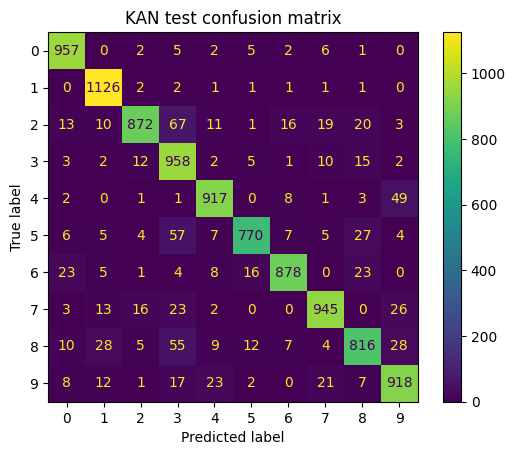
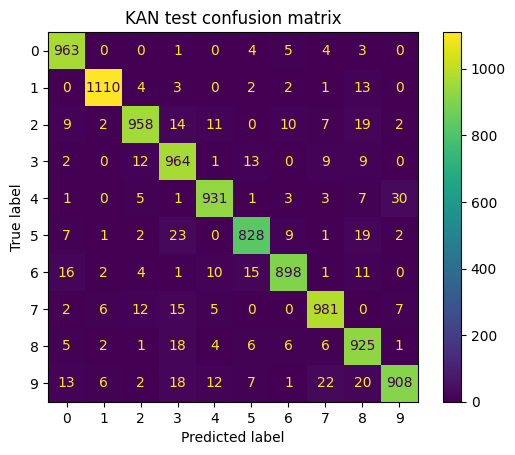
confusion matrix generation

diff --git a/src/main.py b/src/main.py
@@ -8,7 +8,7 @@ import optuna
 import torch
 import torch.nn as nn
 import torch.optim as optim
-from sklearn.metrics import ConfusionMatrixDisplay
+from sklearn.metrics import ConfusionMatrixDisplay, classification_report
 from torch.utils.data import DataLoader, Dataset, random_split
 from torchvision import datasets, transforms
 
@@ -176,7 +176,7 @@ def train_and_report(
     device: torch.device,
     epochs: int,
 ) -> None:
-    """Retrain with params on the full training set, print params, train time, and test accuracy, and save a confusion matrix."""
+    """Retrain with params on the full training set, print params, train time, test accuracy, and a classification report, and save a confusion matrix."""
     trial = optuna.trial.FixedTrial(params)
     model = build_model(trial)
     lr, batch_size = suggest_training(trial)
@@ -191,6 +191,8 @@ def train_and_report(
     print(f"{name} train time: {elapsed:.1f}s")
     print(f"{name} test accuracy: {acc:.4f}")
     print(f"{name} confusion matrix: {save_confusion_matrix(name, targets, preds)}")
+    print(f"{name} classification report:")
+    print(classification_report(targets.numpy(), preds.numpy(), digits=4))
 
 
 def parse_args() -> argparse.Namespace:

diff --git a/README.md b/README.md
@@ -49,7 +49,7 @@ uv run python src/main.py                       # 20 trials per model, 1 epoch p
 uv run python src/main.py --trials 50 --epochs 3
 ```
 
-For each model, an [Optuna](https://optuna.org) study (TPE sampler) searches hyperparameters by accuracy on a 5,000-example validation split held out from the training set. The best configuration is then retrained on the full training set and evaluated once on the test set, which is never seen during tuning. The script prints the best validation accuracy and params, then parameter count, training time, and test accuracy, for the MLP and KAN in sequence. It also saves a test-set confusion matrix for each model to `results/<model>_confusion_matrix.png` (gitignored).
+For each model, an [Optuna](https://optuna.org) study (TPE sampler) searches hyperparameters by accuracy on a 5,000-example validation split held out from the training set. The best configuration is then retrained on the full training set and evaluated once on the test set, which is never seen during tuning. The script prints the best validation accuracy and params, then parameter count, training time, test accuracy, and a per-class classification report (precision, recall, F1), for the MLP and KAN in sequence. It also saves a test-set confusion matrix for each model to `results/<model>_confusion_matrix.png` (gitignored).
 
 | Model | Search space |
 |-------|--------------|
